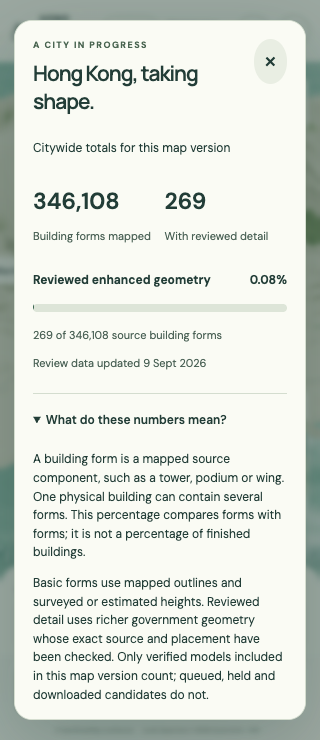
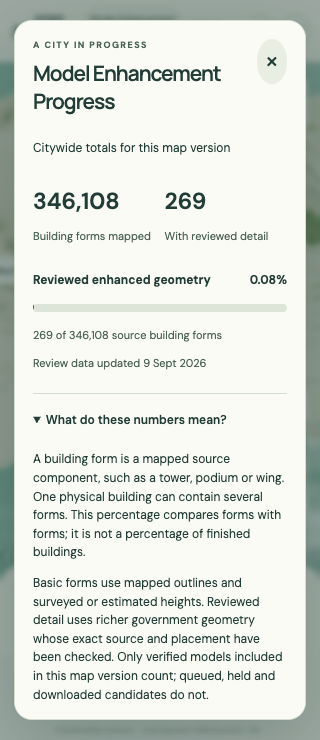
fix(city): clarify model enhancement progress and counts
Refs: HKS-220

Changed region(s): [[0.0938, 0.0932, 0.6875, 0.1554], [0.8125, 0.0622, 0.875, 0.0932], [0.2812, 0.0, 0.3438, 0.0311]]

diff --git a/3d-viewer/city/city.css b/3d-viewer/city/city.css
@@ -131,6 +131,6 @@ body:not(.controls-mobile):not(.controls-expanded) #location-title{left:32px}
 .mesh-inspection .weather-control input:disabled{opacity:.4;cursor:default}.mesh-scope{border-top:1px solid var(--line);padding-top:10px}
 
 /* Citywide source-form progress remains independent of scene streaming. */
-.progress-trigger{display:flex;align-items:center;gap:7px;padding:7px 10px;border:1px solid #c4d0c0;border-radius:18px;font-size:11px;white-space:nowrap}.progress-trigger b{font-variant-numeric:tabular-nums;color:#315640}.building-progress{width:min(460px,calc(100vw - 28px));max-height:calc(100dvh - 40px);padding:25px;border:1px solid #d4ddcf;border-radius:18px;background:#fafbf4;color:#223d37;box-shadow:0 20px 70px #183c3540;overflow:auto}.building-progress::backdrop{background:#132f2866;backdrop-filter:blur(3px)}.building-progress header{display:flex;align-items:flex-start;justify-content:space-between;gap:16px}.building-progress header button{font-size:25px;width:36px;min-height:36px;border-radius:50%;background:#e9eee3}.building-progress h2{font-family:Manrope,Arial,sans-serif;font-size:23px;margin:7px 0 12px;line-height:1.3}.progress-eyebrow{font-size:9px;letter-spacing:.16em;font-weight:700;margin:0;color:#496450}.building-progress p{line-height:1.55}.progress-numbers{display:grid;grid-template-columns:1fr 1fr;gap:15px;margin:25px 0}.progress-numbers dd{font-size:29px;font-weight:600;font-variant-numeric:tabular-nums;margin:0 0 5px}.progress-numbers dt{font-size:11px;color:#4c6357}.progress-meter-heading{display:flex;justify-content:space-between;gap:15px;font-size:12px}.building-progress meter{display:block;width:100%;height:16px;margin:9px 0;accent-color:#38624d}.building-progress meter::-webkit-meter-bar{background:#dde5d8;border:0;border-radius:8px}.building-progress meter::-webkit-meter-optimum-value{background:#38624d}.progress-caption,.progress-updated{font-size:11px;color:#4c6357}.building-progress details{margin-top:22px;border-top:1px solid #d4ddcf;padding-top:16px;font-size:12px}.building-progress summary{cursor:pointer;font-weight:600;min-height:28px}.building-progress details a{text-decoration:underline}.progress-trigger:focus-visible,.building-progress summary:focus-visible,.building-progress button:focus-visible{outline:2px solid #315640;outline-offset:4px}
-@media(max-width:760px){.topbar nav{gap:9px}.progress-trigger{font-size:10px;padding:7px 8px;gap:5px}.progress-trigger span{font-size:0}.progress-trigger span:after{content:'Progress';font-size:10px}.building-progress{padding:22px}.progress-numbers dd{font-size:25px}.building-progress h2{font-size:21px}}
-@media(max-width:370px){.progress-trigger b{display:none}.building-progress{padding:18px}.progress-numbers{gap:9px}.progress-numbers dd{font-size:23px}}
+.progress-trigger{display:flex;flex-direction:column;align-items:center;gap:3px;padding:7px 10px;border:1px solid #c4d0c0;border-radius:18px;font-size:11px;white-space:nowrap}.progress-trigger b{font-variant-numeric:tabular-nums;color:#315640}.building-progress{width:min(460px,calc(100vw - 28px));max-height:calc(100dvh - 40px);padding:25px;border:1px solid #d4ddcf;border-radius:18px;background:#fafbf4;color:#223d37;box-shadow:0 20px 70px #183c3540;overflow:auto}.building-progress::backdrop{background:#132f2866;backdrop-filter:blur(3px)}.building-progress header{display:flex;align-items:flex-start;justify-content:space-between;gap:16px}.building-progress header button{font-size:25px;width:36px;min-height:36px;border-radius:50%;background:#e9eee3}.building-progress h2{font-family:Manrope,Arial,sans-serif;font-size:23px;margin:7px 0 12px;line-height:1.3}.progress-eyebrow{font-size:9px;letter-spacing:.16em;font-weight:700;margin:0;color:#496450}.building-progress p{line-height:1.55}.progress-numbers{display:grid;grid-template-columns:1fr 1fr;gap:15px;margin:25px 0}.progress-numbers dd{font-size:29px;font-weight:600;font-variant-numeric:tabular-nums;margin:0 0 5px}.progress-numbers dt{font-size:11px;color:#4c6357}.progress-meter-heading{display:flex;justify-content:space-between;gap:15px;font-size:12px}.building-progress meter{display:block;width:100%;height:16px;margin:9px 0;accent-color:#38624d}.building-progress meter::-webkit-meter-bar{background:#dde5d8;border:0;border-radius:8px}.building-progress meter::-webkit-meter-optimum-value{background:#38624d}.progress-caption,.progress-updated{font-size:11px;color:#4c6357}.building-progress details{margin-top:22px;border-top:1px solid #d4ddcf;padding-top:16px;font-size:12px}.building-progress summary{cursor:pointer;font-weight:600;min-height:28px}.building-progress details a{text-decoration:underline}.progress-trigger:focus-visible,.building-progress summary:focus-visible,.building-progress button:focus-visible{outline:2px solid #315640;outline-offset:4px}
+@media(max-width:760px){.topbar nav{gap:9px}.progress-trigger{font-size:10px;padding:7px 8px;gap:5px}.progress-trigger span{max-width:120px;white-space:normal;line-height:1.2}.building-progress{padding:22px}.progress-numbers dd{font-size:25px}.building-progress h2{font-size:21px}}
+@media(max-width:370px){.progress-trigger{font-size:9px;padding:5px;gap:2px}.progress-trigger b{font-size:8px}.building-progress{padding:18px}.progress-numbers{gap:9px}.progress-numbers dd{font-size:23px}}

diff --git a/3d-viewer/city/building-progress.js b/3d-viewer/city/building-progress.js
@@ -7,6 +7,6 @@ export async function bindBuildingProgress(manifest,{doc=document,fetcher=fetch}
  const dialog=doc.getElementById('building-progress'),open=doc.getElementById('progress-open'),close=doc.getElementById('progress-close');open.addEventListener('click',()=>dialog.showModal());close.addEventListener('click',()=>dialog.close());dialog.addEventListener('click',e=>{if(e.target===dialog){const r=dialog.getBoundingClientRect();if(e.clientX<r.left||e.clientX>r.right||e.clientY<r.top||e.clientY>r.bottom)dialog.close();}});
  const unavailable=message=>{doc.getElementById('progress-status').textContent=message;doc.getElementById('progress-values').hidden=true;doc.getElementById('progress-chip').textContent='Updating';};
  try{const response=await fetcher('city/data/building-progress.json',{cache:'no-cache'});if(!response.ok)throw Error('Statistics unavailable');const data=await response.json(),p=coveragePresentation(data);if(!p)throw Error('Statistics unavailable');const digest=await crypto.subtle.digest('SHA-256',new TextEncoder().encode(JSON.stringify(manifest))),actual=[...new Uint8Array(digest)].map(x=>x.toString(16).padStart(2,'0')).join('');if(actual!==data.manifestDigest){unavailable('Statistics are being updated for this map version.');return;}
-  const number=n=>n.toLocaleString('en-HK');doc.getElementById('progress-total').textContent=number(p.total);doc.getElementById('progress-enhanced').textContent=number(p.enhanced);doc.getElementById('progress-percent').textContent=p.percentage;doc.getElementById('progress-ratio').textContent=`${number(p.enhanced)} of ${number(p.total)} source building forms`;const meter=doc.getElementById('progress-meter');meter.max=p.total||1;meter.value=p.enhanced;meter.setAttribute('aria-valuetext',`${p.percentage}: ${number(p.enhanced)} of ${number(p.total)} source building forms have reviewed enhanced geometry`);meter.hidden=p.percent===null;doc.getElementById('progress-date').textContent=p.date;doc.getElementById('progress-chip').textContent=p.percentage;doc.getElementById('progress-status').textContent='Citywide totals for this map version';doc.getElementById('progress-values').hidden=false;
+  const number=n=>n.toLocaleString('en-HK');doc.getElementById('progress-total').textContent=number(p.total);doc.getElementById('progress-enhanced').textContent=number(p.enhanced);doc.getElementById('progress-percent').textContent=p.percentage;doc.getElementById('progress-ratio').textContent=`${number(p.enhanced)} of ${number(p.total)} source building forms`;const meter=doc.getElementById('progress-meter');meter.max=p.total||1;meter.value=p.enhanced;meter.setAttribute('aria-valuetext',`${p.percentage}: ${number(p.enhanced)} of ${number(p.total)} source building forms have reviewed enhanced geometry`);meter.hidden=p.percent===null;doc.getElementById('progress-date').textContent=p.date;doc.getElementById('progress-chip').textContent=`${p.percentage} · ${number(p.enhanced)} / ${number(p.total)}`;open.setAttribute('aria-label',`Model Enhancement Progress: ${p.percentage}, ${number(p.enhanced)} enhanced of ${number(p.total)} source building forms`);doc.getElementById('progress-status').textContent='Citywide totals for this map version';doc.getElementById('progress-values').hidden=false;
  }catch{unavailable('Building statistics are temporarily unavailable. You can still explore the city.');}
 }

diff --git a/3d-viewer/city.html b/3d-viewer/city.html
@@ -13,7 +13,7 @@
 <header class="topbar">
  <a class="brand" href="city.html" aria-label="Hong Kong Sandbox city home"><svg viewBox="0 0 36 36" fill="none" aria-hidden="true"><path d="M3 26 12 9l7 12 5-8 9 13M3 30h30M12 9v17m12-13v13" stroke="currentColor" stroke-width="1.8" stroke-linejoin="round"/></svg><span>HONG KONG<span class="brand-sub">S A N D B O X</span></span></a>
  <div class="edition"><span class="live-dot"></span> CITY EXPLORER <span class="edition-divider">/</span> ASTRA EDITION</div>
- <nav><button id="progress-open" class="progress-trigger" aria-haspopup="dialog" aria-controls="building-progress"><span>City progress</span><b id="progress-chip">…</b></button><a class="terrain-link" href="index.html">Original game <span>↗</span></a><button id="about-open" class="icon-button" aria-label="About this city">i</button><button id="panel-toggle" class="icon-button" aria-label="Open city controls" aria-controls="explorer" aria-expanded="false">☰</button></nav>
+ <nav><button id="progress-open" class="progress-trigger" aria-haspopup="dialog" aria-controls="building-progress"><span>Model Enhancement Progress</span><b id="progress-chip">…</b></button><a class="terrain-link" href="index.html">Original game <span>↗</span></a><button id="about-open" class="icon-button" aria-label="About this city">i</button><button id="panel-toggle" class="icon-button" aria-label="Open city controls" aria-controls="explorer" aria-expanded="false">☰</button></nav>
 </header>
 <aside id="explorer" class="panel explorer control-sheet" aria-label="City controls">
  <header class="sheet-header">
@@ -136,7 +136,7 @@
 <script type="module" src="city/app.js"></script>
 
 <dialog id="building-progress" class="building-progress" aria-labelledby="progress-heading">
- <header><div><p class="progress-eyebrow">A CITY IN PROGRESS</p><h2 id="progress-heading">Hong Kong, taking shape.</h2></div><button id="progress-close" aria-label="Close building progress">×</button></header>
+ <header><div><p class="progress-eyebrow">A CITY IN PROGRESS</p><h2 id="progress-heading">Model Enhancement Progress</h2></div><button id="progress-close" aria-label="Close building progress">×</button></header>
  <p id="progress-status" role="status">Loading building statistics…</p>
  <div id="progress-values" hidden>
   <dl class="progress-numbers"><div><dd id="progress-total"></dd><dt>Building forms mapped</dt></div><div><dd id="progress-enhanced"></dd><dt>With reviewed detail</dt></div></dl>

diff --git a/docs/astra-city/building-progress/README.md b/docs/astra-city/building-progress/README.md
@@ -22,3 +22,5 @@ Runtime checks the statistics’ manifest digest and labels mismatches as updati
 ## Validation
 
 `node --test 3d-viewer/city/tests/building-progress.test.js` covers multipart/partial upgrades, duplicate replacements, held/pending/downloaded-only and changed sources, proxy removal, empty totals and conflicting installed IDs. `node 3d-viewer/city/tests/building-progress-browser.mjs` passed real city desktop1280×900, mobile390×844 and narrow320×740, accessible native dialog/meter labels, camera-stable totals, no page/dialog horizontal overflow, and stale/unavailable/empty fixtures. The screenshots were visually inspected. Emulated Chrome is not a real-device Safari performance certification.
+
+9 September label refinement: header and dialog now say “Model Enhancement Progress”. The header includes percentage and enhanced/total form counts, including narrow screens. Existing counting rules are unchanged. Four counting tests and desktop/mobile/narrow browser checks passed, including unavailable, stale and empty statistics.
